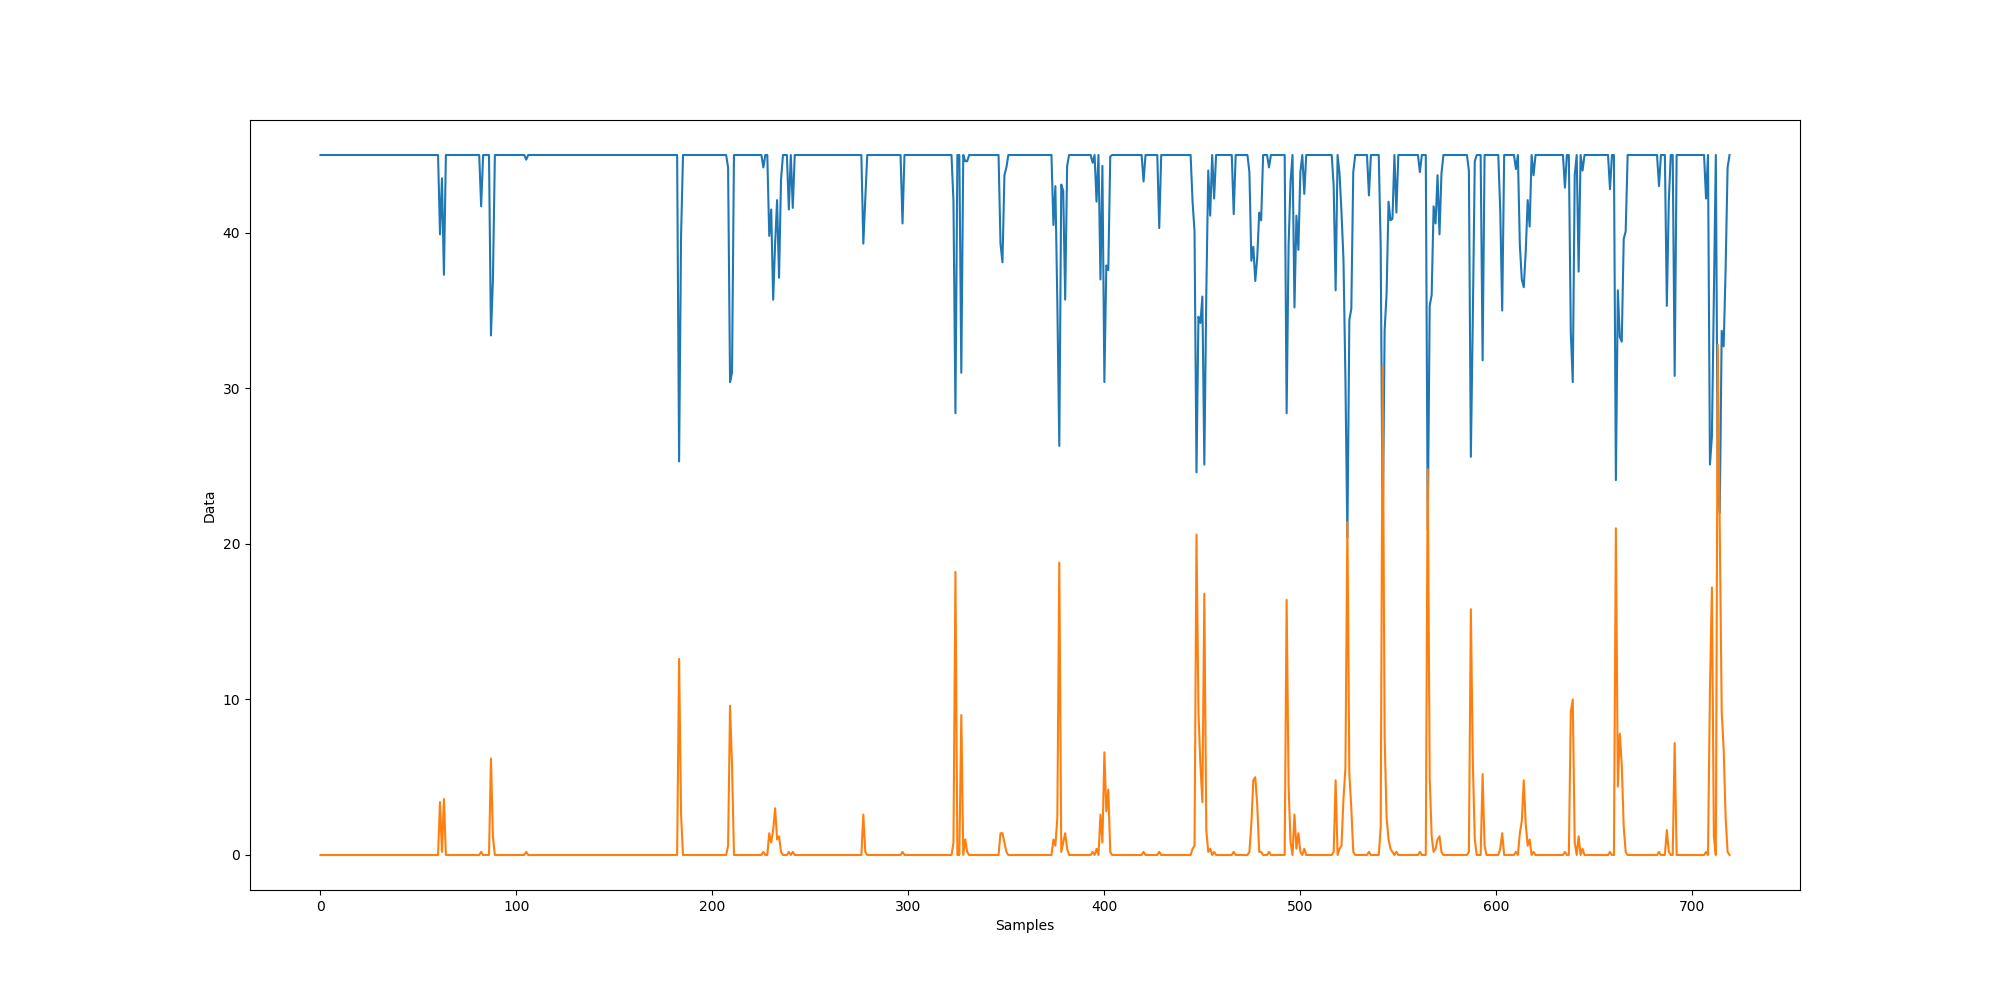
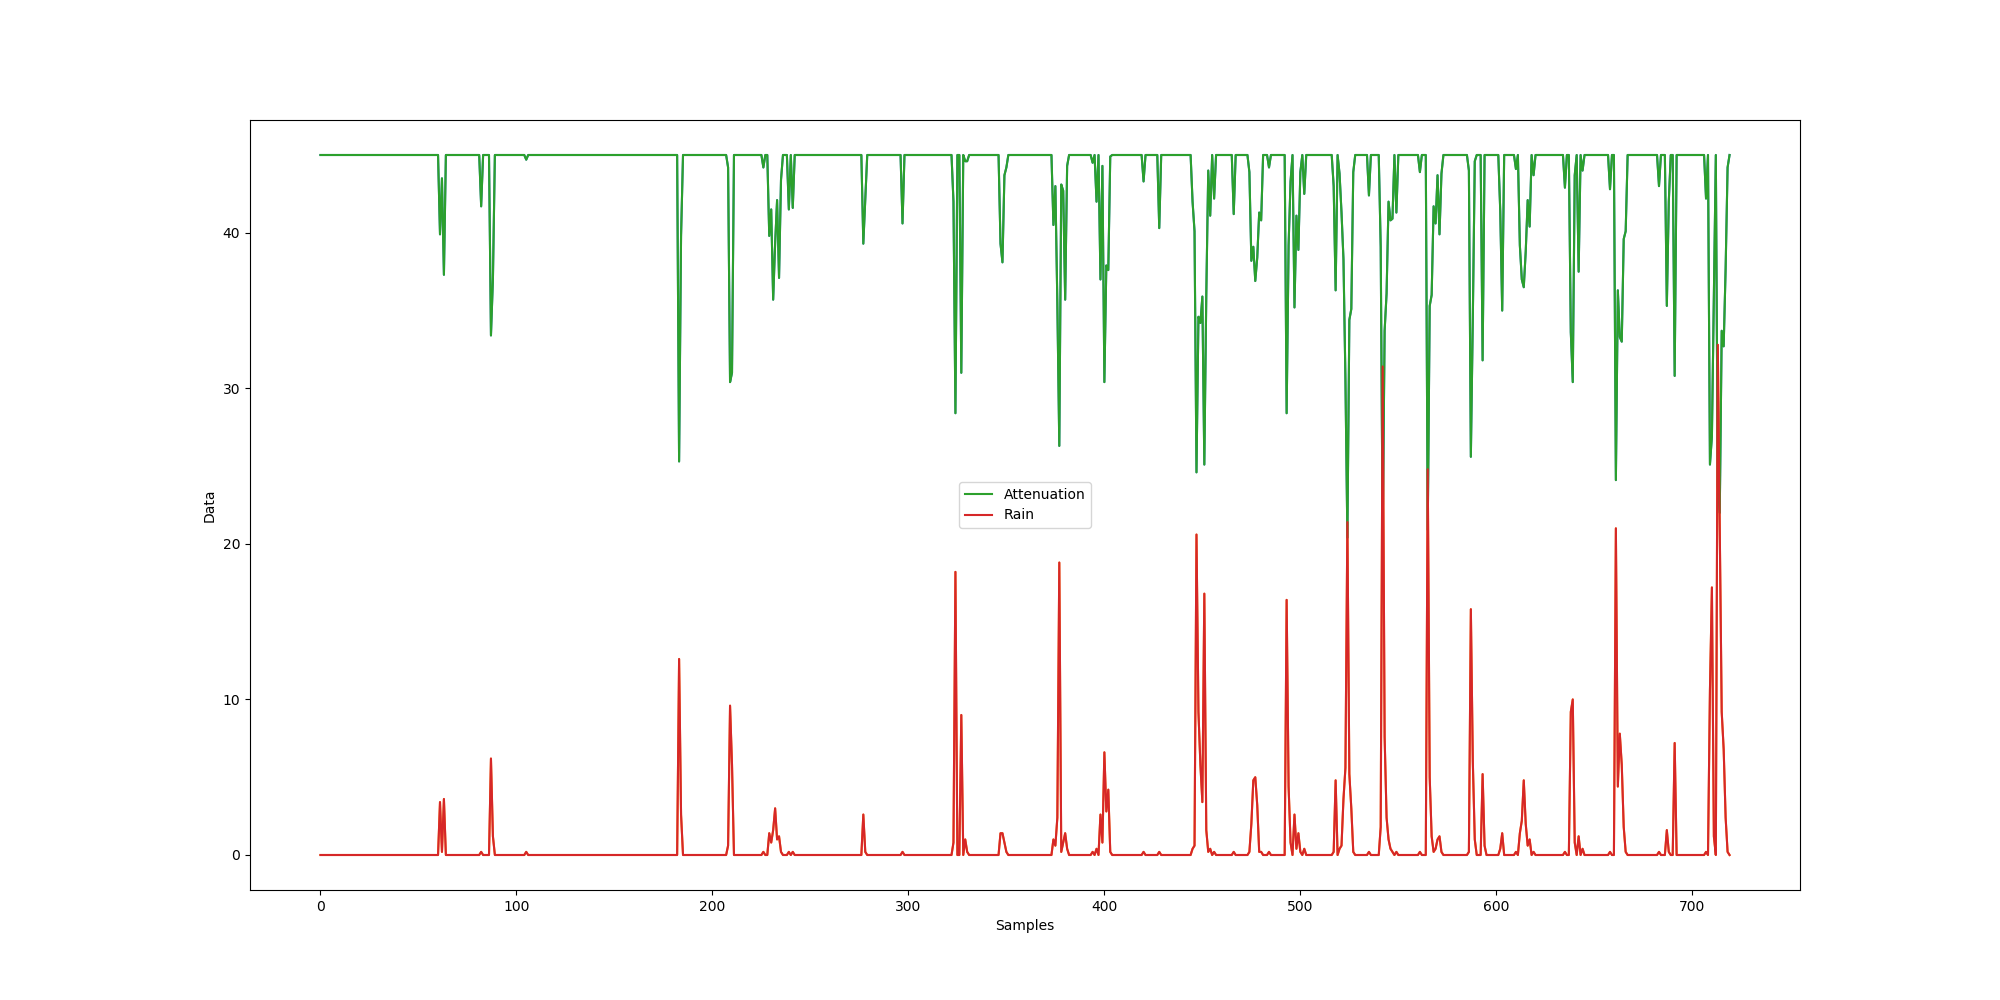
Avance

diff --git a/Code/Calibrate.py b/Code/Calibrate.py
@@ -41,6 +41,9 @@ plt.xlabel("Samples")
 plt.ylabel("Data")
 plt.ion()
 plt.plot(Y)
+plt.plot(X, label = "Attenuation")
+plt.plot(Y, label = "Rain")
+plt.legend(loc="center") 
 plt.savefig('DataVsSamples.png')
 #plt.show()
 ValuesGraph3D = plt.figure()
@@ -50,7 +53,7 @@ plt.savefig('3DPlot.png')
 #plt.show()
 
 
-########################## MULTIPLE LINEAR REGRESSION METHOD ##########################################################
+##################### MULTIPLE LINEAR REGRESSION METHOD ########################
 
 
 #Generate necesary coeficients
@@ -86,11 +89,12 @@ def GradientDescent(X, Y, B, alpha, m, iterations):
         CostHistory[iteration] = Cost
     return B, CostHistory
 
-############################ HYPOTHESIS VALUES ########################################################################
+
+############################ HYPOTHESIS VALUES #################################
+
 
 def RunCalibrate():
     BForH, CostHistory = GradientDescent(Xmatrix, Y, B, alpha, m, 100000)
-def CalibrationResults():
     H_X0 = BForH[0]
     H_X1 = BForH[1]
     return H_X0, H_X1

diff --git a/Code/AttenAlert.py b/Code/AttenAlert.py
@@ -3,18 +3,13 @@ import matplotlib.pyplot as plt
 import geopandas as gp
 import Calibrate
 
-MatrixResults = np.zeros((5,5))
 
-def main():
-
-    DataArray = np.genfromtxt('DatosAtenuacion.txt', delimiter=',')
-    x1 = DataArray[0]
-    x2 = DataArray[1]
-    x3 = DataArray[2]
-    x4 = DataArray[3]
+############################ HYPOTHESIS CONSTANTS ##############################
 
 
-    DataArray = np.insert(DataArray,5,y)
+def YCalc(X, B0, B1):
+    Y = B0 + B1*X
+    print(B0, B1)
+    return Y
 
-
-main()
+################################### INPUT VALUES ###############################

diff --git a/Code/Platform.py b/Code/Platform.py
@@ -3,14 +3,15 @@ import Calibrate
 import AttenAlert
 
 ##################### CALIBRATION AND HYPOTHESIS ###############################
-Calibrate.RunCalibrate()
 
+B0, B1 = Calibrate.RunCalibrate()
 
 ################################################################################
-def runPlataform():
+def RunPlataform():
 
-
+    AttenAlert.YCalc(5, B0, B1)
     time.sleep(10)
 
+######################### INFINITE LOOP ########################################
 while True:
-    runPlataform()
+    RunPlataform()
